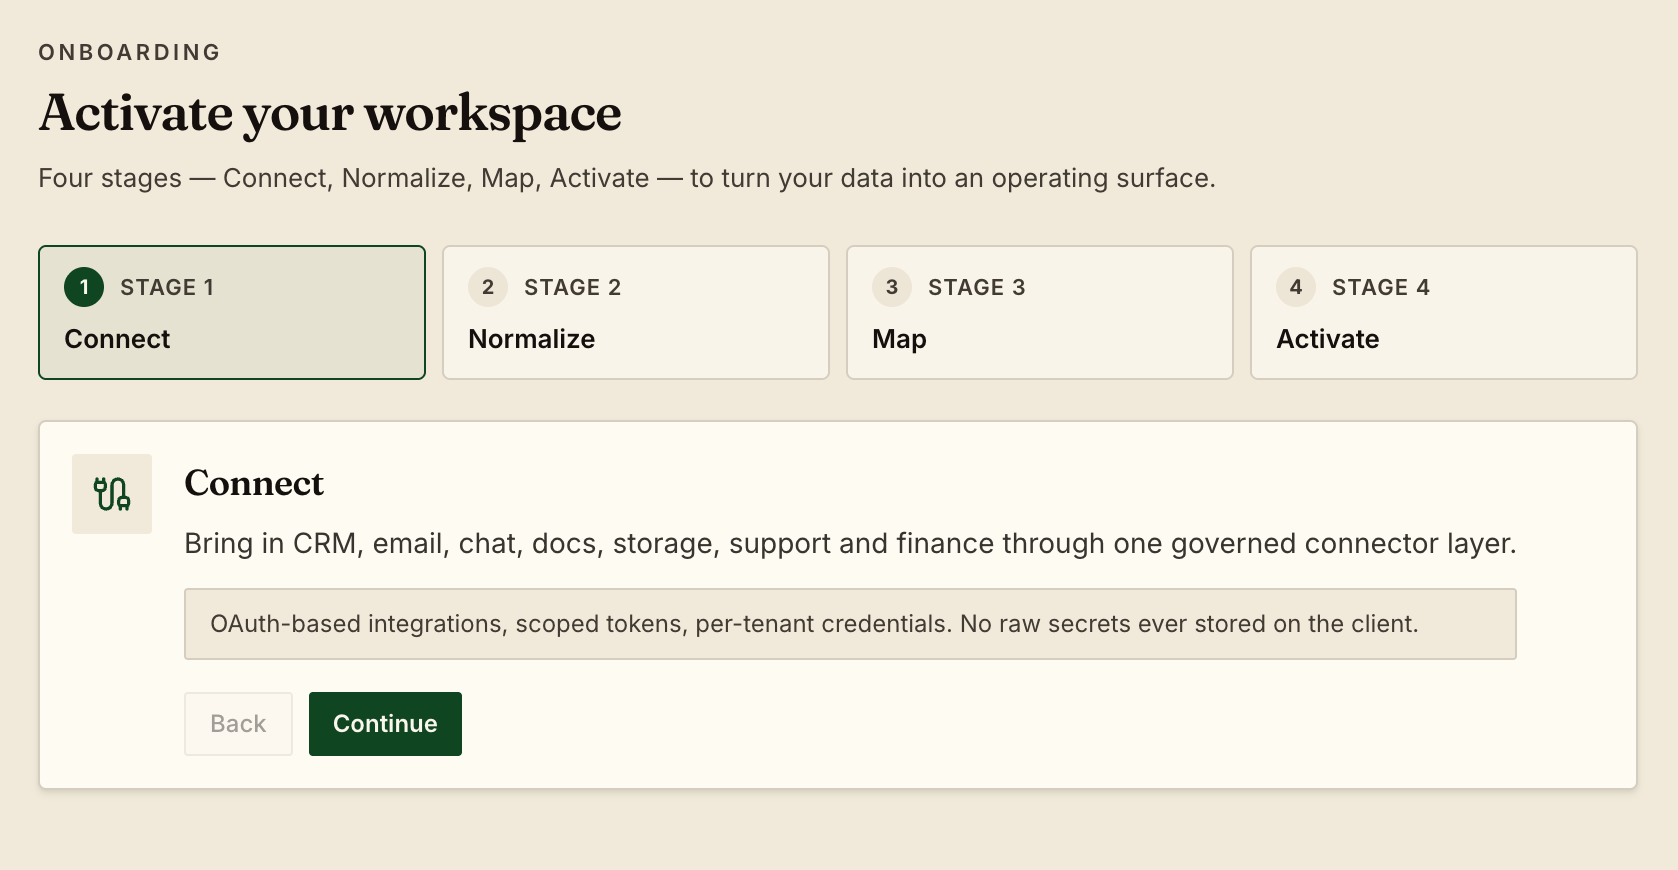
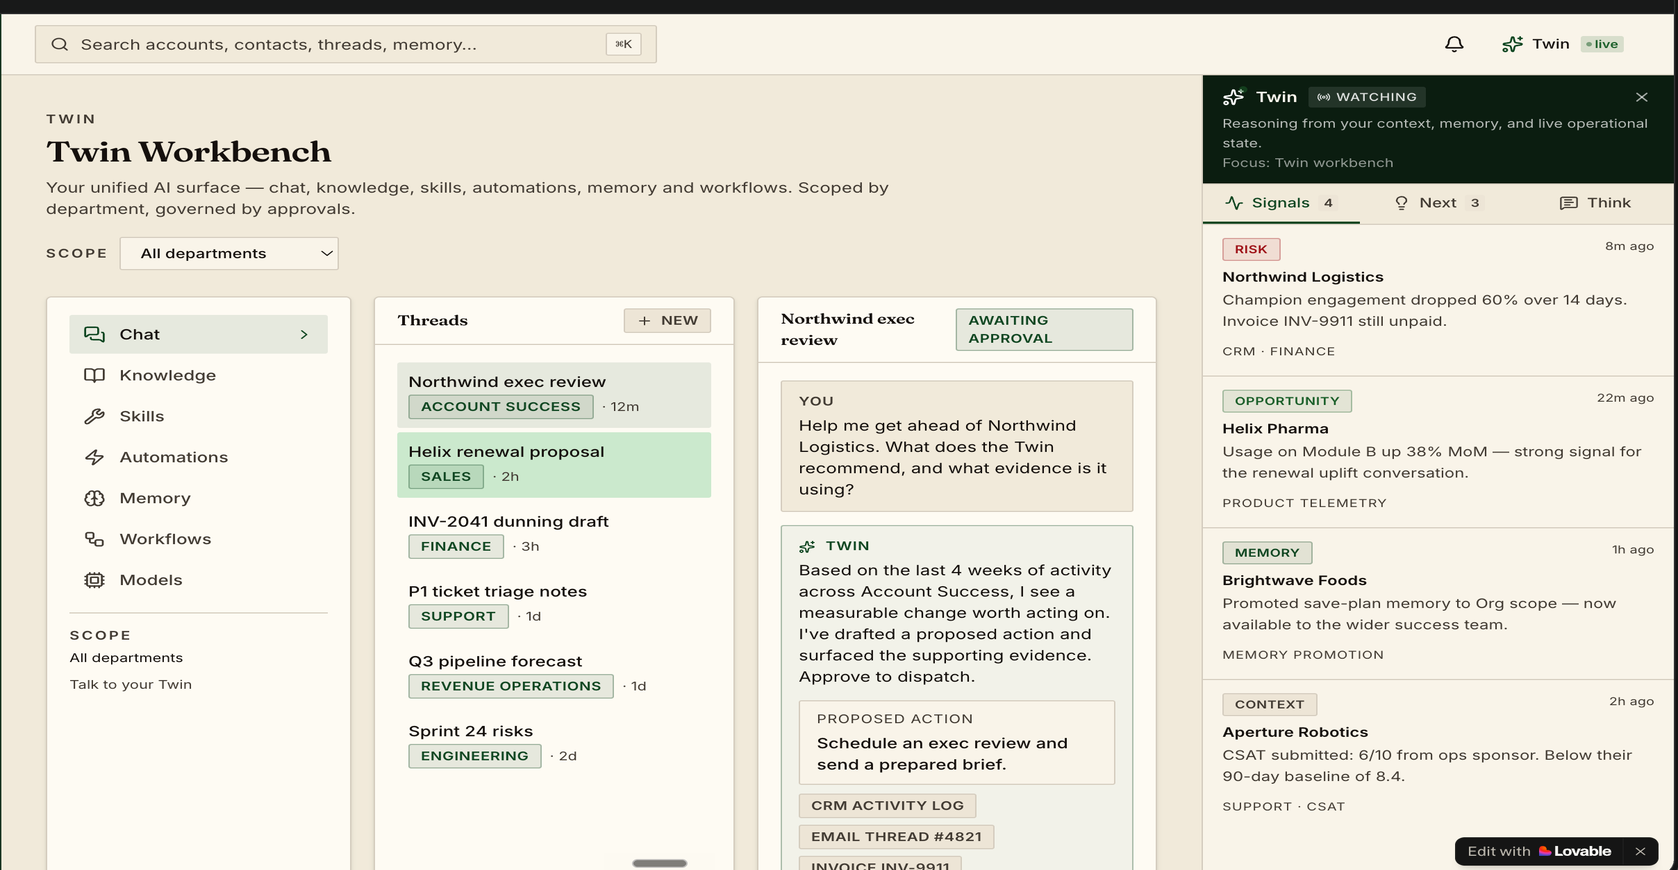
Fix twin-workbench image and remove blank spaces around images

diff --git a/index.html b/index.html
@@ -71,13 +71,55 @@
       /* Subtle diagonal cut on hero — architectural, not template */
       [class*="hero"]:not(nav):not(header) {
         clip-path: polygon(0 0, 100% 0, 100% 92%, 0 100%);
-        padding-bottom: 8rem;
+        padding-bottom: 2rem;
       }
       
       @media (min-width: 768px) {
         [class*="hero"]:not(nav):not(header) {
-          padding-bottom: 10rem;
+          padding-bottom: 3rem;
         }
+      }
+      
+      /* Remove blank spaces around images */
+      img {
+        display: block;
+        max-width: 100%;
+        height: auto;
+        margin: 0;
+        padding: 0;
+      }
+      
+      /* Ensure images fill containers without gaps */
+      .surface-grid img,
+      [class*="showcase"] img,
+      [class*="grid"] img {
+        width: 100%;
+        height: 100%;
+        object-fit: cover;
+        object-position: center;
+      }
+      
+      /* Tighten image containers */
+      [class*="showcase"],
+      .surface-grid > div,
+      [class*="card"] {
+        overflow: hidden;
+        line-height: 0;
+      }
+      
+      /* Hero section layout - align content properly */
+      [class*="hero"] {
+        display: flex;
+        align-items: center;
+        min-height: auto;
+      }
+      
+      /* Remove extra margins from headings in hero */
+      [class*="hero"] h1,
+      [class*="hero"] h2,
+      [class*="hero"] p {
+        margin-top: 0;
+        margin-bottom: 1rem;
       }
     </style>
   </head>